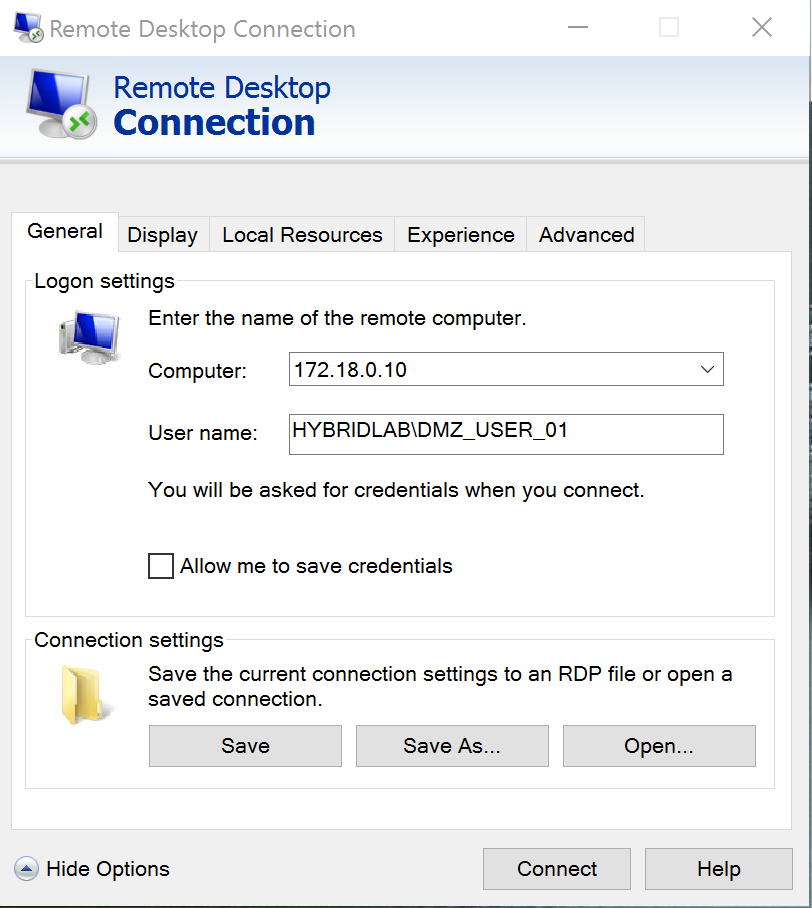
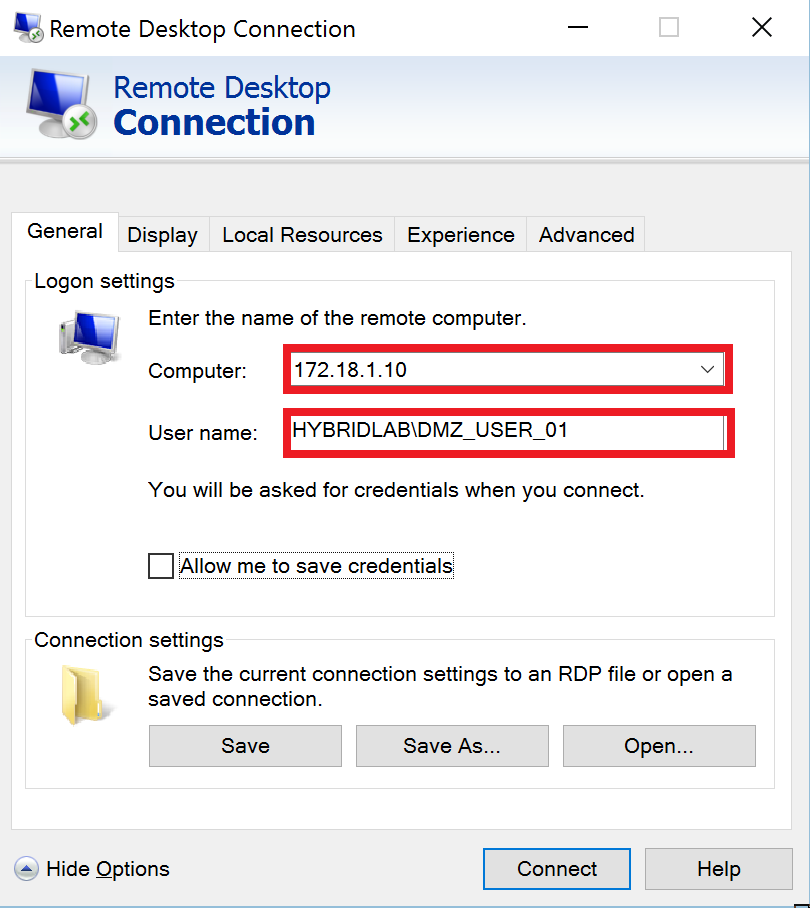
.

diff --git a/HybridCloudApp/Documentation/environment_access.md b/HybridCloudApp/Documentation/environment_access.md
@@ -83,12 +83,17 @@ Next you’ll see the main AnyConnect window go through several connection state
 
 ### 2.2 Remote desktop connection
 
-Open Remote Desktop Client (icon available on the desktop) and login to the jumphost which is available under address:
+Open Remote Desktop Client (icon available on the desktop). If there is no icon for Remote Desktop Connection on the Desktop, click start, and start typing `mstsc`
 
-[172.18.0.10](rdp://172.18.0.10)
-User your user with a domain HYBRIDLAB\ <user_name>
+Click `show options` and type IP address of the jumphost and username. Don't forget to specify domain name which is `HYBRIDLAB`.
 
-**![screenshot of remote desktop](https://raw.githubusercontent.com/pradeesi/HybridCloudApp/master/HybridCloudApp/Documentation/images/rdp_dmz_ip.png)**
+    Computer: 172.18.0.10
+    User name: HYBRIDLAB\DMZ_USER_<ID>
+
+Populated fields should be similar to the picture.  
+**Each user login to the same jumphost, regardless of the POD or server they should use**
+
+**![screenshot of remote desktop](https://raw.githubusercontent.com/pradeesi/HybridCloudApp/master/HybridCloudApp/Documentation/images/rdp_dmz_creds.png)**
 
 
 ## 3. Accessing Cisco Container Platrofm
